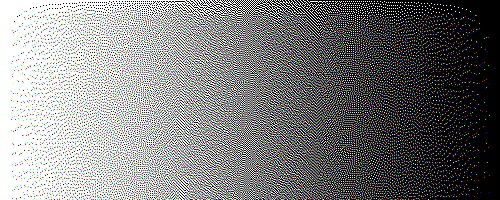
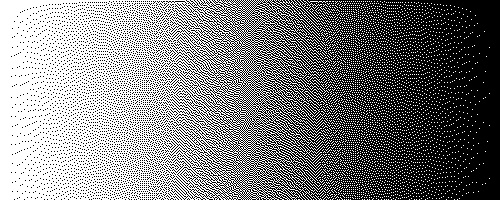
Removed greyscale feature

diff --git a/src/main.cpp b/src/main.cpp
@@ -4,9 +4,9 @@
 
 using namespace cv;
 
-void floyd_steinberg_dithering_serial(std::string input, int greyscale, int factor);
-void floyd_steinberg_dithering_parallel(std::string input, int greyscale, int factor, int num_threads);
-void quantization(std::string input, int greyscale, int factor);
+void floyd_steinberg_dithering_serial(std::string input, int factor);
+void floyd_steinberg_dithering_parallel(std::string input, int factor, int num_threads);
+void quantization(std::string input, int factor);
 void floyd_steinberg_calculation(Mat &img, Mat &result, int factor, int i, int j);
 
 int main(int argc, char *argv[]) {
@@ -15,16 +15,15 @@ int main(int argc, char *argv[]) {
 
   // fetching command line arguments
   std::string input = argv[1];
-  int greyscale = atoi(argv[2]);
-  int dithered = atoi(argv[3]);
-  int factor = atoi(argv[4]);
-  int run_parallel_code = atoi(argv[5]);
-  int num_threads = atoi(argv[6]);
+  int dithered = atoi(argv[2]);
+  int factor = atoi(argv[3]);
+  int run_parallel_code = atoi(argv[4]);
+  int num_threads = atoi(argv[5]);
 
-  dithered == 1 ? floyd_steinberg_dithering_serial(input, greyscale, factor) : quantization(input, greyscale, factor);
+  dithered == 1 ? floyd_steinberg_dithering_serial(input, factor) : quantization(input, factor);
   
   if(run_parallel_code == 1)
-    floyd_steinberg_dithering_parallel(input, greyscale, factor, num_threads);
+    floyd_steinberg_dithering_parallel(input, factor, num_threads);
 
   double end = omp_get_wtime();
   double result = end - start;
@@ -32,7 +31,7 @@ int main(int argc, char *argv[]) {
   return 0;
 }
 
-void quantization(std::string input, int greyscale, int factor) {
+void quantization(std::string input, int factor) {
   Mat img = imread("../input/" + input);
   Mat result = img.clone();
 
@@ -57,10 +56,8 @@ uint8_t clamp(int value) {
   return max(0, min(value, 255));
 }
 
-void floyd_steinberg_dithering_serial(std::string input, int greyscale, int factor) {
+void floyd_steinberg_dithering_serial(std::string input, int factor) {
   Mat img = imread("../input/" + input);
-  if(greyscale == 1)
-    cvtColor(img, img, COLOR_BGR2GRAY);
   Mat result = img.clone();
   for(int i = 0; i < img.rows; i++) {
     for(int j = 0; j < img.cols; j++) {
@@ -96,10 +93,8 @@ void floyd_steinberg_calculation(Mat &img, Mat &result, int factor, int i, int j
   }
 }
 
-void floyd_steinberg_dithering_parallel(std::string input, int greyscale, int factor, int num_threads) {
+void floyd_steinberg_dithering_parallel(std::string input, int factor, int num_threads) {
   Mat img = imread("../input/" + input);
-  if(greyscale == 1)
-    cvtColor(img, img, COLOR_BGR2GRAY);
   Mat result = img.clone();
   
   // This tracks the progress of the threads through the rows
